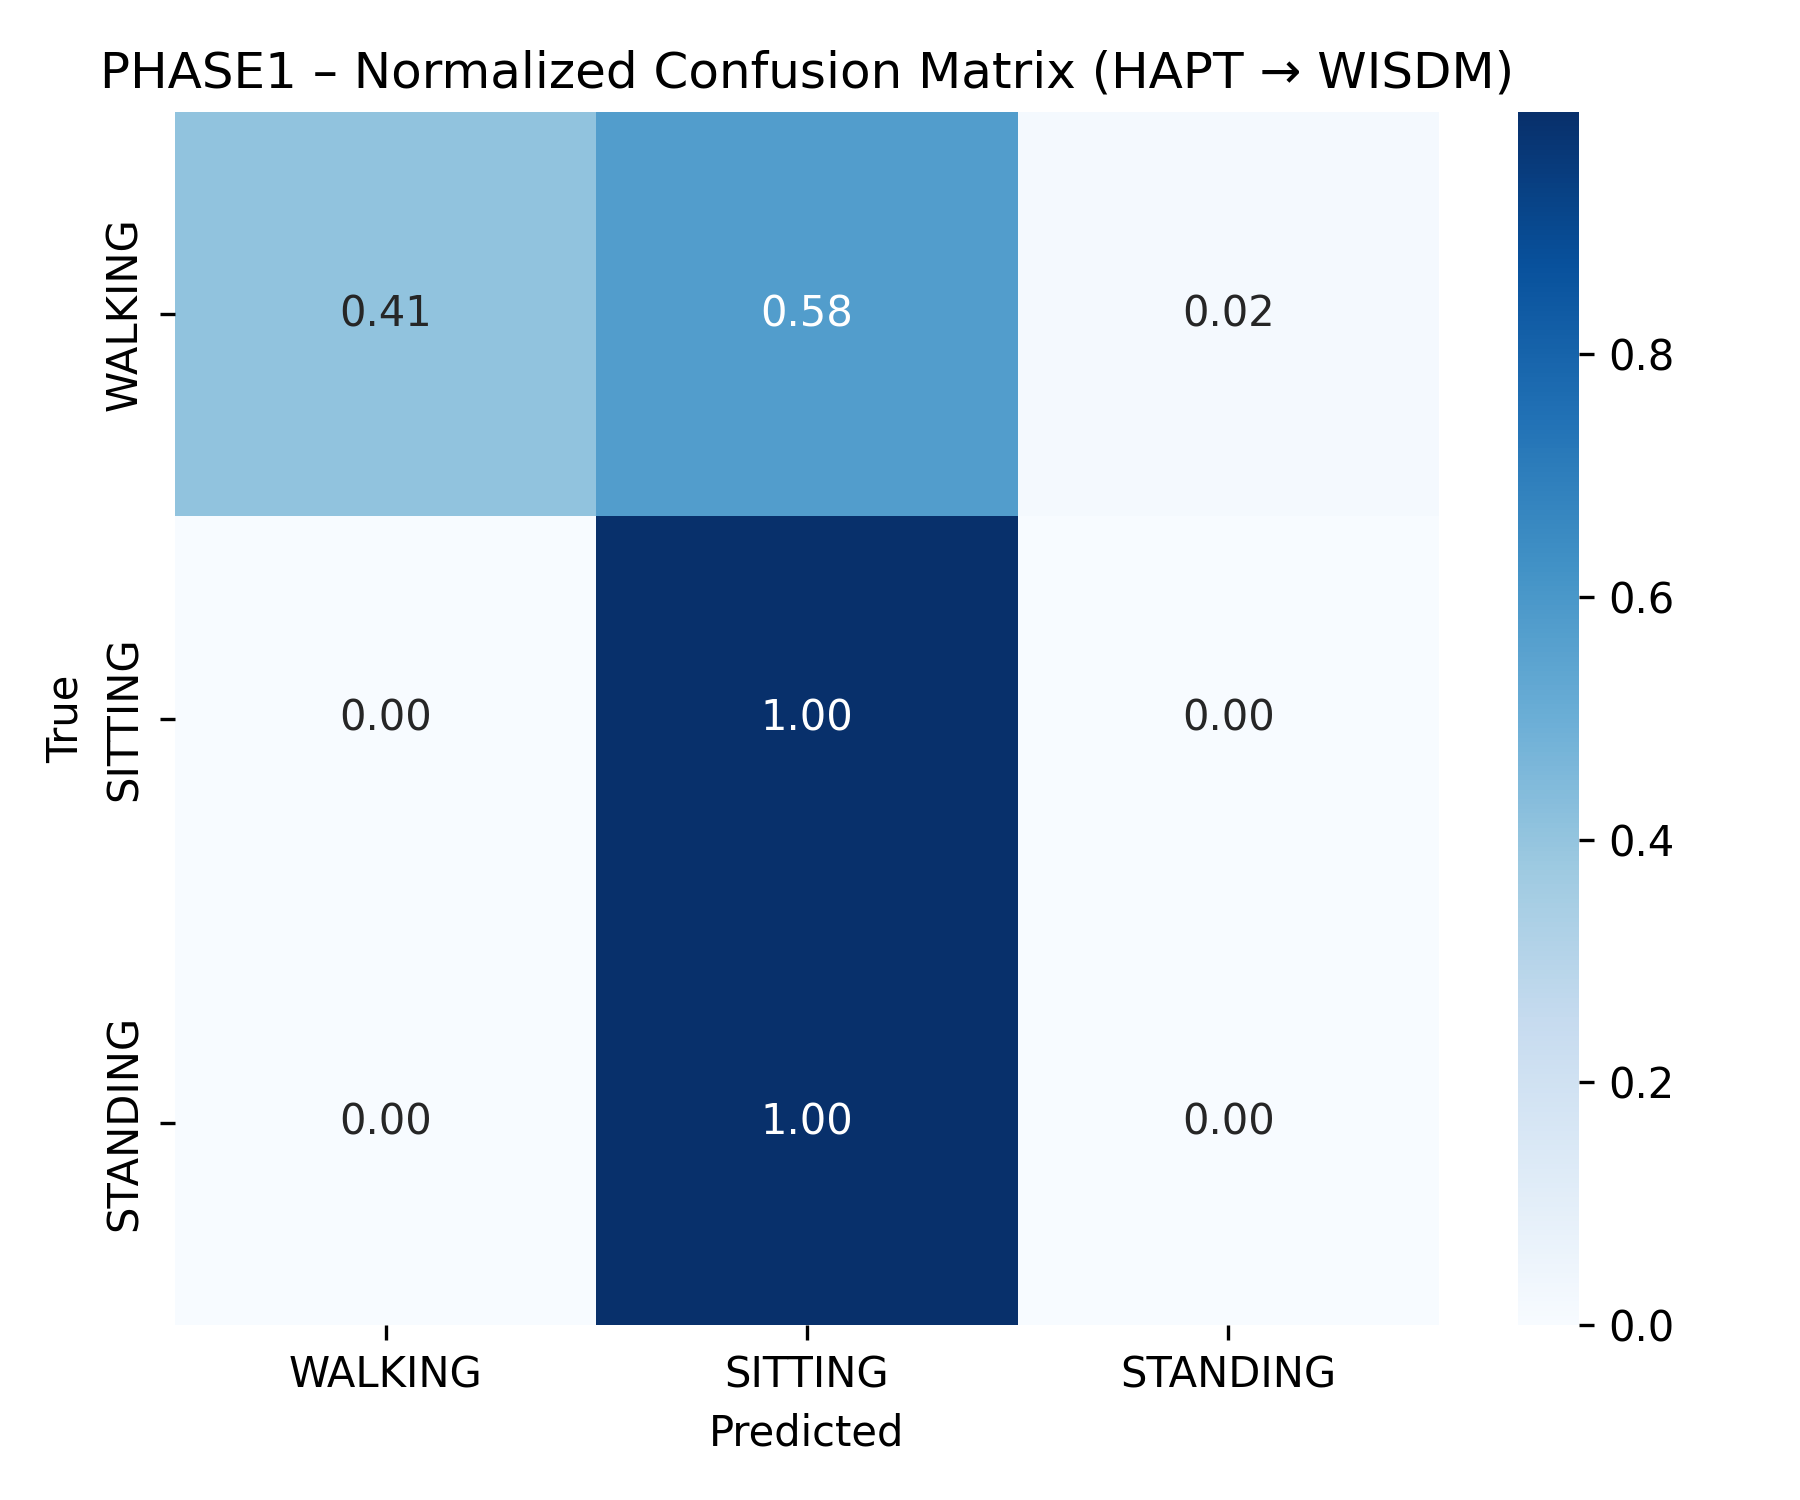
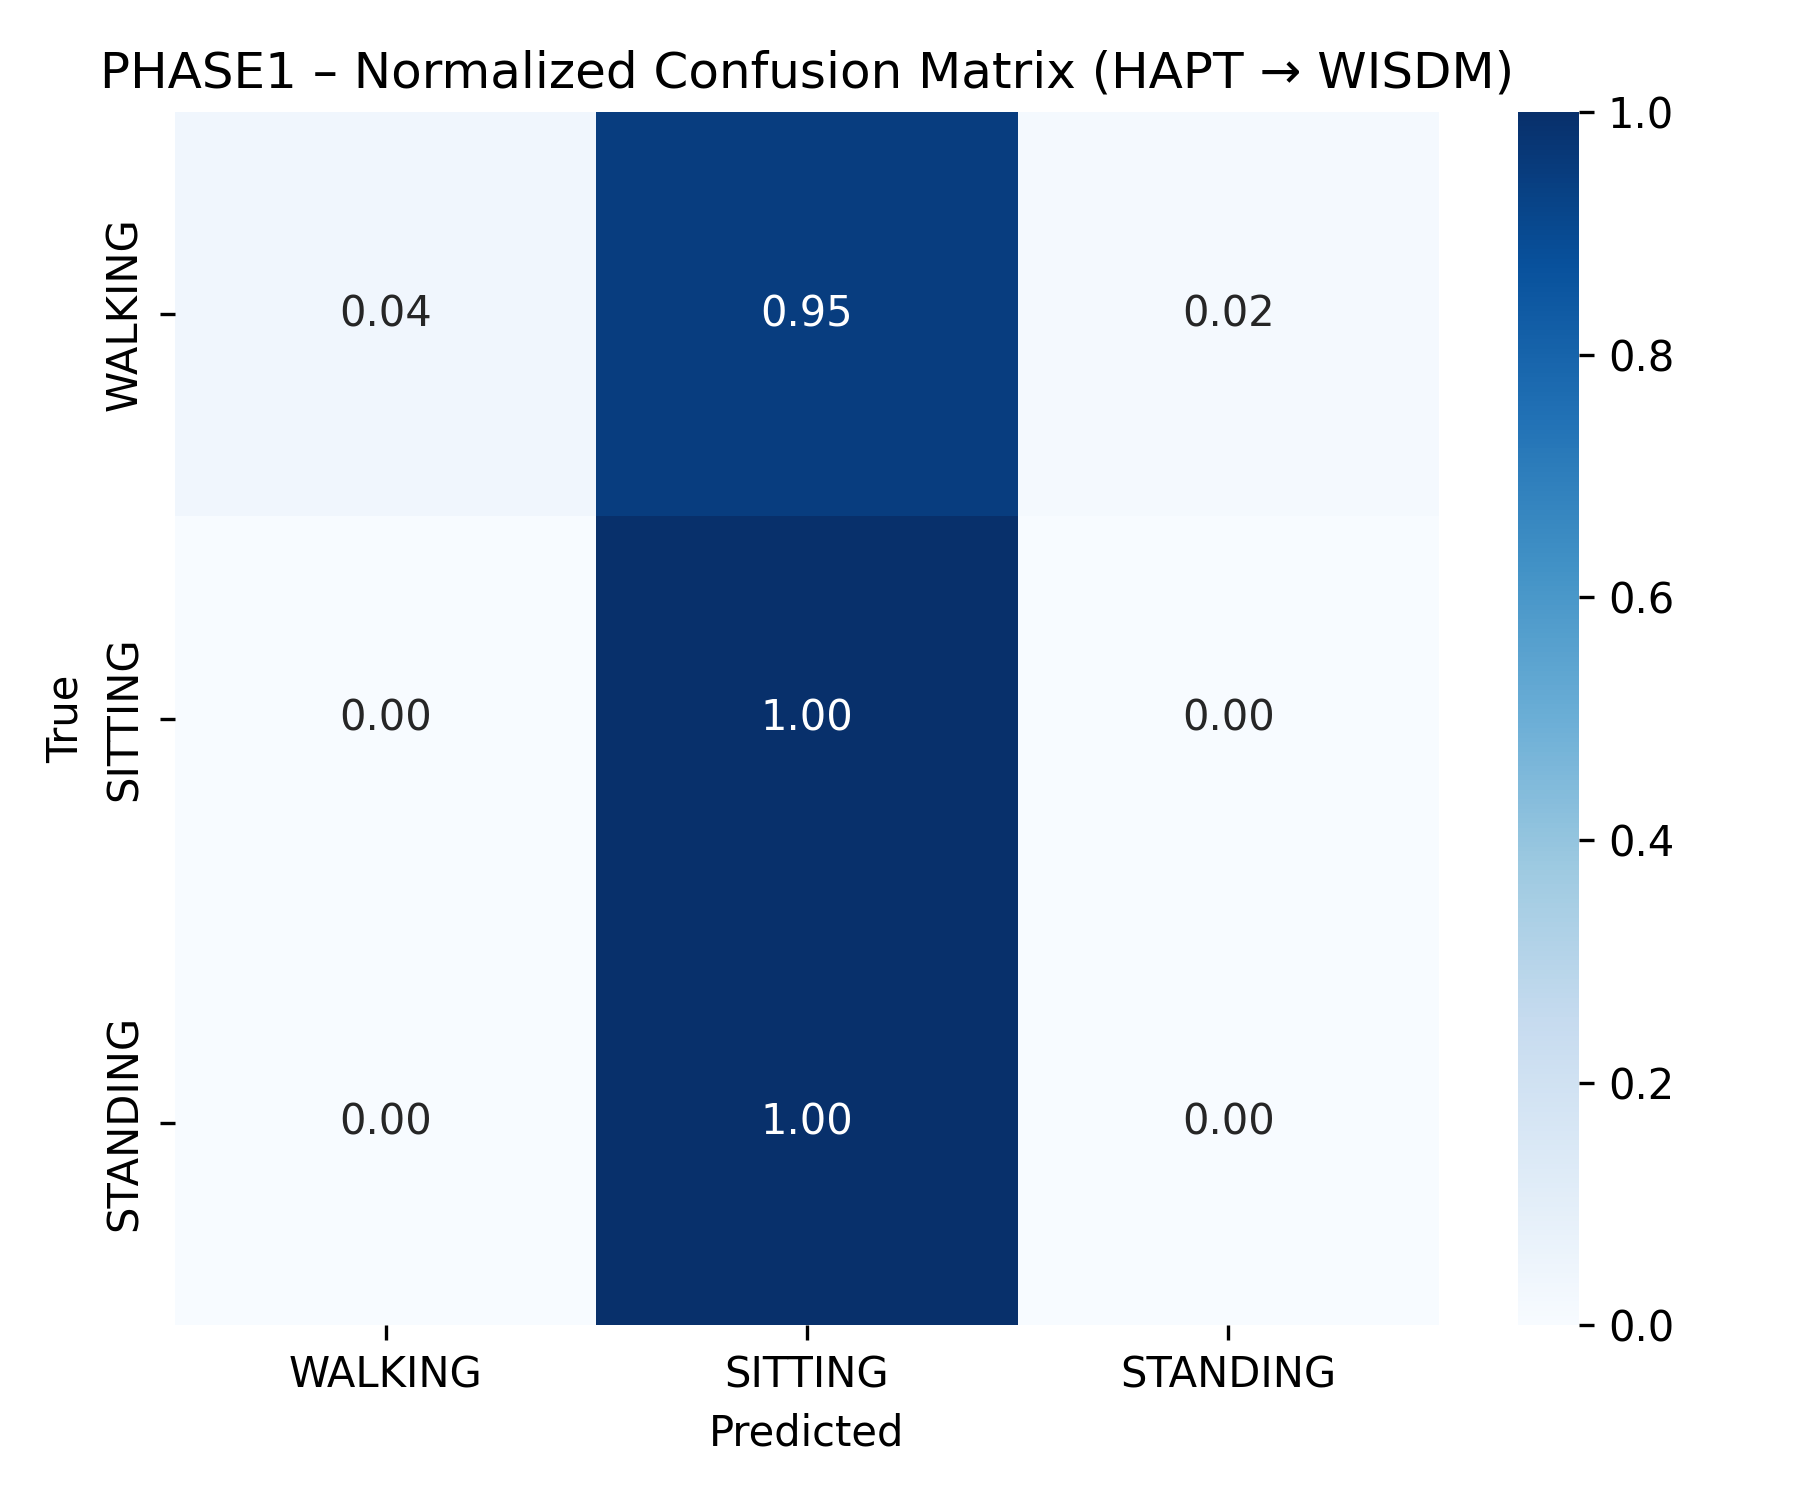
Phase 1/2 driver: use SGD (log-loss) as linear base learner, matching Methodology and Phase 3
Rerun: Phase 1 88.77/33.72, Phase 2 88.40/38.63 (HAPT train/WISDM test). Direction of the
Phase 1 vs Phase 2 WISDM difference flips vs the Perceptron run (46.51/37.66).

diff --git a/src/cross_dataset_hapt_to_wisdm.py b/src/cross_dataset_hapt_to_wisdm.py
@@ -13,7 +13,7 @@ import os
 # Re-using stacking ensemble model from Human_Activity_Recognition.py
 from sklearn.ensemble import RandomForestClassifier, GradientBoostingClassifier, StackingClassifier
 from sklearn.svm import SVC
-from sklearn.linear_model import LogisticRegression, Perceptron
+from sklearn.linear_model import LogisticRegression, Perceptron, SGDClassifier
 from xgboost import XGBClassifier
 
 # ==================
@@ -77,7 +77,7 @@ X_test  = scaler.transform(X_test)
 
 def get_advanced_stacking_model():
     level0 = [
-        ('perceptron', Perceptron(max_iter=2000, tol=1e-3)),
+        ('sgd', SGDClassifier(loss='log_loss', max_iter=2000, tol=1e-3, random_state=42)),
         ('random_forest', RandomForestClassifier(n_estimators=20, max_depth=5, random_state=42)),
         ('svm', SVC(kernel='rbf', C=1.0, probability=True, random_state=42, class_weight='balanced')),
         ('xgboost', XGBClassifier(n_estimators=20, learning_rate=0.1, random_state=42)),
